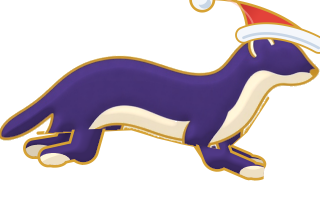
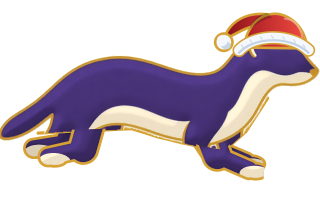
Шапка ласки: колпак свисает назад, опушка дугой закрывает ухо, не режется краем кадра
Claude-Session: https://claude.ai/code/session_01KZCacXiU3RRiQPw1Ee69wE

Changed region(s): [[0.5938, 0.0, 1.0, 0.3]]

diff --git a/packaging/seasons/weasel_hat.py b/packaging/seasons/weasel_hat.py
@@ -22,48 +22,67 @@ import weasel as W  # noqa: E402
 FUR = QColor("#f4f7fb")
 
 
-SCALE = 1.35          # шапка чуть крупнее «настоящей»: в колесе ласка маленькая, а шапку должно быть видно
+SCALE = 1.18          # шапка чуть крупнее «настоящей»: в колесе ласка маленькая, а шапку должно быть видно
 
 
-def hat(p, point, flap=0.0):
-    """Колпак по точкам рисунка: point(x, y) - где точка (x, y) рисунка ласки оказалась в кадре."""
+def hat(p, point, flap=0.0, scale=SCALE):
+    """Колпак по точкам рисунка: point(x, y) - где точка (x, y) рисунка ласки оказалась в кадре.
+    Опушка обхватывает голову дугой и закрывает ухо, колпак поднимается над макушкой и свисает назад,
+    к шее (помпон ниже макушки - край кадра его не режет); flap - на сколько качнулся помпон."""
     raw = point
 
-    def point(x, y):                                        # увеличиваем вокруг макушки, опушка - на лбу
-        return raw(418 + (x - 418) * SCALE, 24 + (y - 24) * SCALE)
-    a, b = point(380, 14), point(456, 22)
-    tip = point(328, -14 + flap)
-    shape = QPainterPath(a)
-    shape.cubicTo(a + QPointF(-4, -38) * SCALE, point(350, -34 + flap * 0.5), tip)
-    shape.cubicTo(point(352, -22 + flap * 0.5), a + QPointF(40, -30) * SCALE, b)
-    shape.closeSubpath()
-    red = QLinearGradient(a, tip)
-    red.setColorAt(0, QColor("#e3423a"))
-    red.setColorAt(1, QColor("#9c1a1a"))
-    p.setPen(QPen(W.OCHRE, W.LINE))
+    def point(x, y):                                        # увеличиваем вокруг макушки
+        return raw(410 + (x - 410) * scale, 18 + (y - 18) * scale)
+    red = QLinearGradient(point(440, 20), point(350, 30))
+    red.setColorAt(0, QColor("#e8473e"))
+    red.setColorAt(0.6, QColor("#b8262a"))
+    red.setColorAt(1, QColor("#8a1717"))
+    pen = QPen(W.OCHRE, W.LINE)
+    pen.setJoinStyle(Qt.RoundJoin)
+    tail = QPainterPath(point(404, -11))                    # свисающий хвост колпака - сзади, под макушкой
+    tail.cubicTo(point(378, -16), point(350, -2 + flap * 0.4), point(344, 26 + flap))
+    tail.cubicTo(point(356, 22 + flap), point(372, 2), point(396, 2))
+    tail.closeSubpath()
+    crown = QPainterPath(point(370, 32))                    # сам колпак над головой
+    crown.cubicTo(point(372, -2), point(396, -16), point(414, -13))
+    crown.cubicTo(point(432, -10), point(448, 6), point(450, 28))
+    crown.closeSubpath()
+    p.setPen(pen)
     p.setBrush(red)
-    p.drawPath(shape)
-    shine = QPainterPath(a + QPointF(8, -10))                  # блик на ткани
-    shine.cubicTo(a + QPointF(6, -26), point(356, -26 + flap * 0.5), point(342, -16 + flap * 0.7))
-    p.setPen(QPen(QColor(255, 190, 180, 120), 3, Qt.SolidLine, Qt.RoundCap))
+    p.drawPath(tail)
+    p.drawPath(crown)
+    p.setPen(Qt.NoPen)
+    p.setBrush(QColor(0, 0, 0, 55))                         # складка: хвост уходит за колпак
+    fold = QPainterPath(point(398, -14))
+    fold.cubicTo(point(386, -12), point(378, -2), point(376, 8))
+    fold.cubicTo(point(386, 0), point(394, -6), point(404, -8))
+    p.drawPath(fold)
+    shine = QPainterPath(point(420, -8))                   # блик на ткани
+    shine.cubicTo(point(434, -8), point(442, 4), point(444, 18))
+    p.setPen(QPen(QColor(255, 200, 190, 130), 3.2, Qt.SolidLine, Qt.RoundCap))
     p.setBrush(Qt.NoBrush)
     p.drawPath(shine)
-    rim = QPainterPath(a + QPointF(-4, 4) * SCALE)
-    rim.cubicTo(a + QPointF(20, -8) * SCALE, b + QPointF(-20, -10) * SCALE, b + QPointF(4, 2) * SCALE)
-    p.setPen(QPen(W.OCHRE, 19 * SCALE, Qt.SolidLine, Qt.RoundCap))
-    p.drawPath(rim)
-    p.setPen(QPen(FUR, 15 * SCALE, Qt.SolidLine, Qt.RoundCap))
-    p.drawPath(rim)
-    p.setPen(QPen(QColor(200, 214, 230), 4, Qt.SolidLine, Qt.RoundCap))   # тень в мехе снизу
-    p.drawPath(rim.translated(0, 4))
+    rim = QPainterPath(point(364, 36))                      # опушка - дугой по голове, через ухо
+    rim.cubicTo(point(382, 14), point(428, 10), point(452, 30))
+    for width, color in ((17, W.OCHRE), (13, FUR)):
+        p.setPen(QPen(color, width * scale, Qt.SolidLine, Qt.RoundCap))
+        p.drawPath(rim)
+    p.setPen(QPen(QColor(196, 210, 228), 3.4, Qt.SolidLine, Qt.RoundCap))   # тень в мехе снизу
+    p.drawPath(rim.translated(0, 3.2 * scale))
+    for k in range(7):                                       # ворс опушки
+        t = (k + 0.5) / 7
+        spot = rim.pointAtPercent(t)
+        p.setPen(QPen(QColor(205, 218, 234), 1.6, Qt.SolidLine, Qt.RoundCap))
+        p.drawLine(spot + QPointF(-2, -3), spot + QPointF(1, 1))
+    tip = point(344, 30 + flap)
     p.setPen(QPen(W.OCHRE, W.LINE))
     p.setBrush(FUR)
-    p.drawEllipse(tip, 13 * SCALE, 13 * SCALE)
+    p.drawEllipse(tip, 11 * scale, 11 * scale)
     p.setPen(Qt.NoPen)
     p.setBrush(QColor(200, 214, 230))
-    p.drawEllipse(tip + QPointF(3, 4) * SCALE, 7 * SCALE, 6 * SCALE)
+    p.drawEllipse(tip + QPointF(3, 4) * scale, 6 * scale, 5 * scale)
     p.setBrush(FUR)
-    p.drawEllipse(tip + QPointF(-2, -2) * SCALE, 8 * SCALE, 8 * SCALE)
+    p.drawEllipse(tip + QPointF(-2, -2) * scale, 7 * scale, 7 * scale)
 
 
 def bent(bend):
@@ -83,23 +102,30 @@ def main(art):
         for old in folder.glob("*.png"):
             old.unlink()
 
-    def save(pair, path):
+    def save(pair, path, drop=0):
+        """Кадр после чистки каймы + слой шапки; drop - опустить всё на столько точек (прыжок пониже)."""
         frame, layer = pair
         frame.save(str(path))
         clean = polish(Image.open(path), 2 / 3)
         layer.save(str(path))
-        Image.alpha_composite(clean, Image.open(path).convert("RGBA")).save(path, optimize=True)
+        done = Image.alpha_composite(clean, Image.open(path).convert("RGBA"))
+        if drop:
+            moved = Image.new("RGBA", done.size, (0, 0, 0, 0))
+            moved.paste(done, (0, drop))
+            done = moved
+        done.save(path, optimize=True)
 
     def run_hat(p, bend, i):                                    # на бегу помпон подпрыгивает
-        hat(p, bent(bend), 7 * math.sin(2 * math.pi * i / W.RUN_FRAMES))
+        hat(p, bent(bend), 6 * math.sin(2 * math.pi * i / W.RUN_FRAMES))
 
-    def cheer_hat(p, bend, i):                                  # в прыжке шапку сдувает назад и вниз
+    def cheer_hat(p, bend, i):                                  # в прыжке помпон отстаёт и потом догоняет
         t = i / (W.CHEER_FRAMES - 1)
-        hat(p, bent(bend), 10 * math.sin(math.pi * t))
+        hat(p, bent(bend), 9 * math.sin(math.pi * t))
     for i, pair in enumerate(W.run_frames(body, run_hat)):
         save(pair, run_dir / f"weasel-run_{i:02d}.png")
-    for i, pair in enumerate(W.cheer_frames(body, cheer_hat)):
-        save(pair, cheer_dir / f"weasel-cheer_{i:02d}.png")
+    for i, pair in enumerate(W.cheer_frames(body, cheer_hat)):          # на пике голова у края кадра - чуть ниже
+        drop = round(16 * math.sin(math.pi * i / (W.CHEER_FRAMES - 1)))
+        save(pair, cheer_dir / f"weasel-cheer_{i:02d}.png", drop)
     # стоит - сам рисунок, шапка по тем же точкам рисунка
     stand = W.stand_frame(sprite)
     layer = QImage(W.W * W.SS, W.H * W.SS, QImage.Format_ARGB32_Premultiplied)
